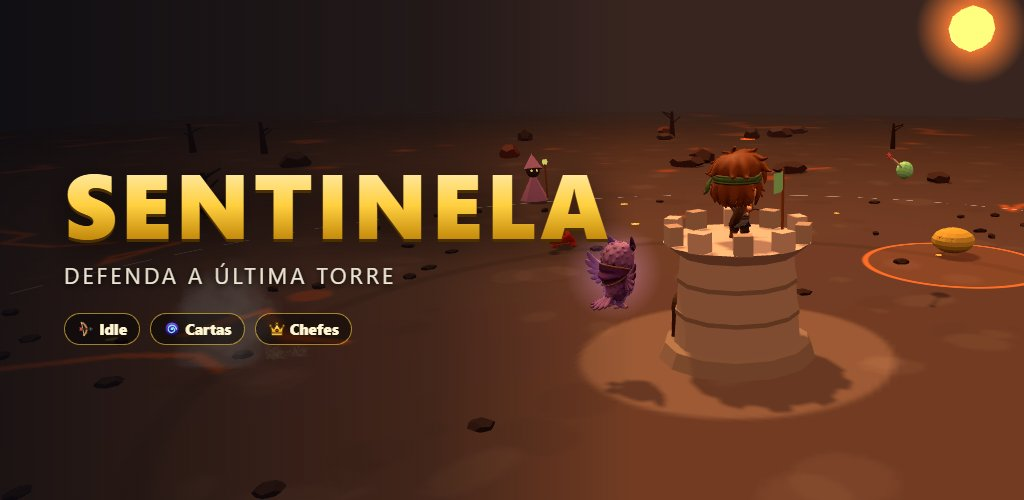
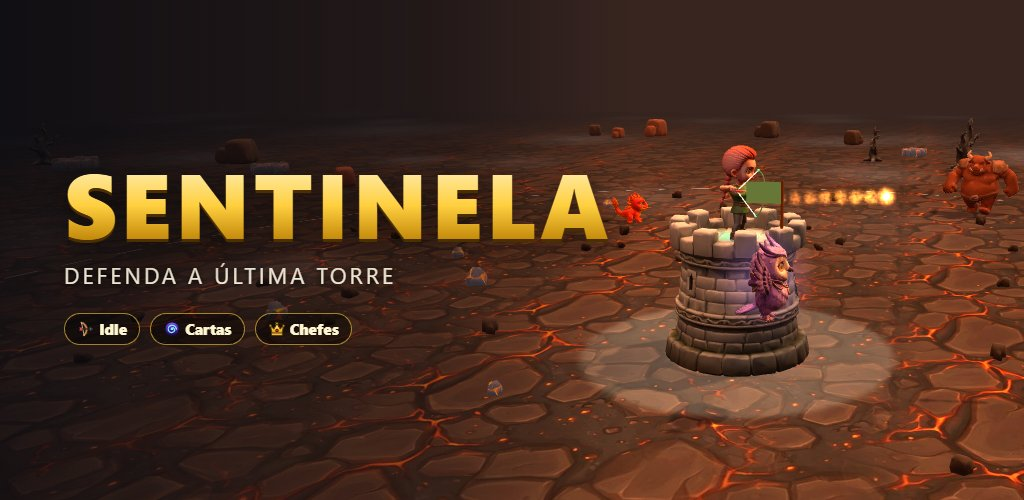
Telas do site com o jogo atual
Capturas novas (batalha, chefe, aba Herói e Portal) e imagem de
compartilhamento com a torre e os companheiros em 3D de hoje.

diff --git a/index.html b/index.html
@@ -218,7 +218,7 @@
       <div class="telas surge" aria-label="Telas do jogo">
         <figure><img src="img/tela-batalha.webp" alt="Tela de batalha" width="230" height="409" loading="lazy"><figcaption>Batalha</figcaption></figure>
         <figure><img src="img/tela-chefe.webp" alt="Luta contra o chefe" width="230" height="409" loading="lazy"><figcaption>Chefes</figcaption></figure>
-        <figure><img src="img/tela-cartas.webp" alt="Tela de cartas" width="230" height="409" loading="lazy"><figcaption>Cartas</figcaption></figure>
+        <figure><img src="img/tela-heroi.webp" alt="Aba Herói com a Arqueira em 3D e o equipamento" width="230" height="409" loading="lazy"><figcaption>Herói</figcaption></figure>
         <figure><img src="img/tela-portal.webp" alt="Portal de invocação" width="230" height="409" loading="lazy"><figcaption>Portal</figcaption></figure>
       </div>
       <p class="aviso-misterio">Joga offline · compras opcionais, nenhuma compra sorteio: invocações saem só de gemas ganhas jogando.</p>
